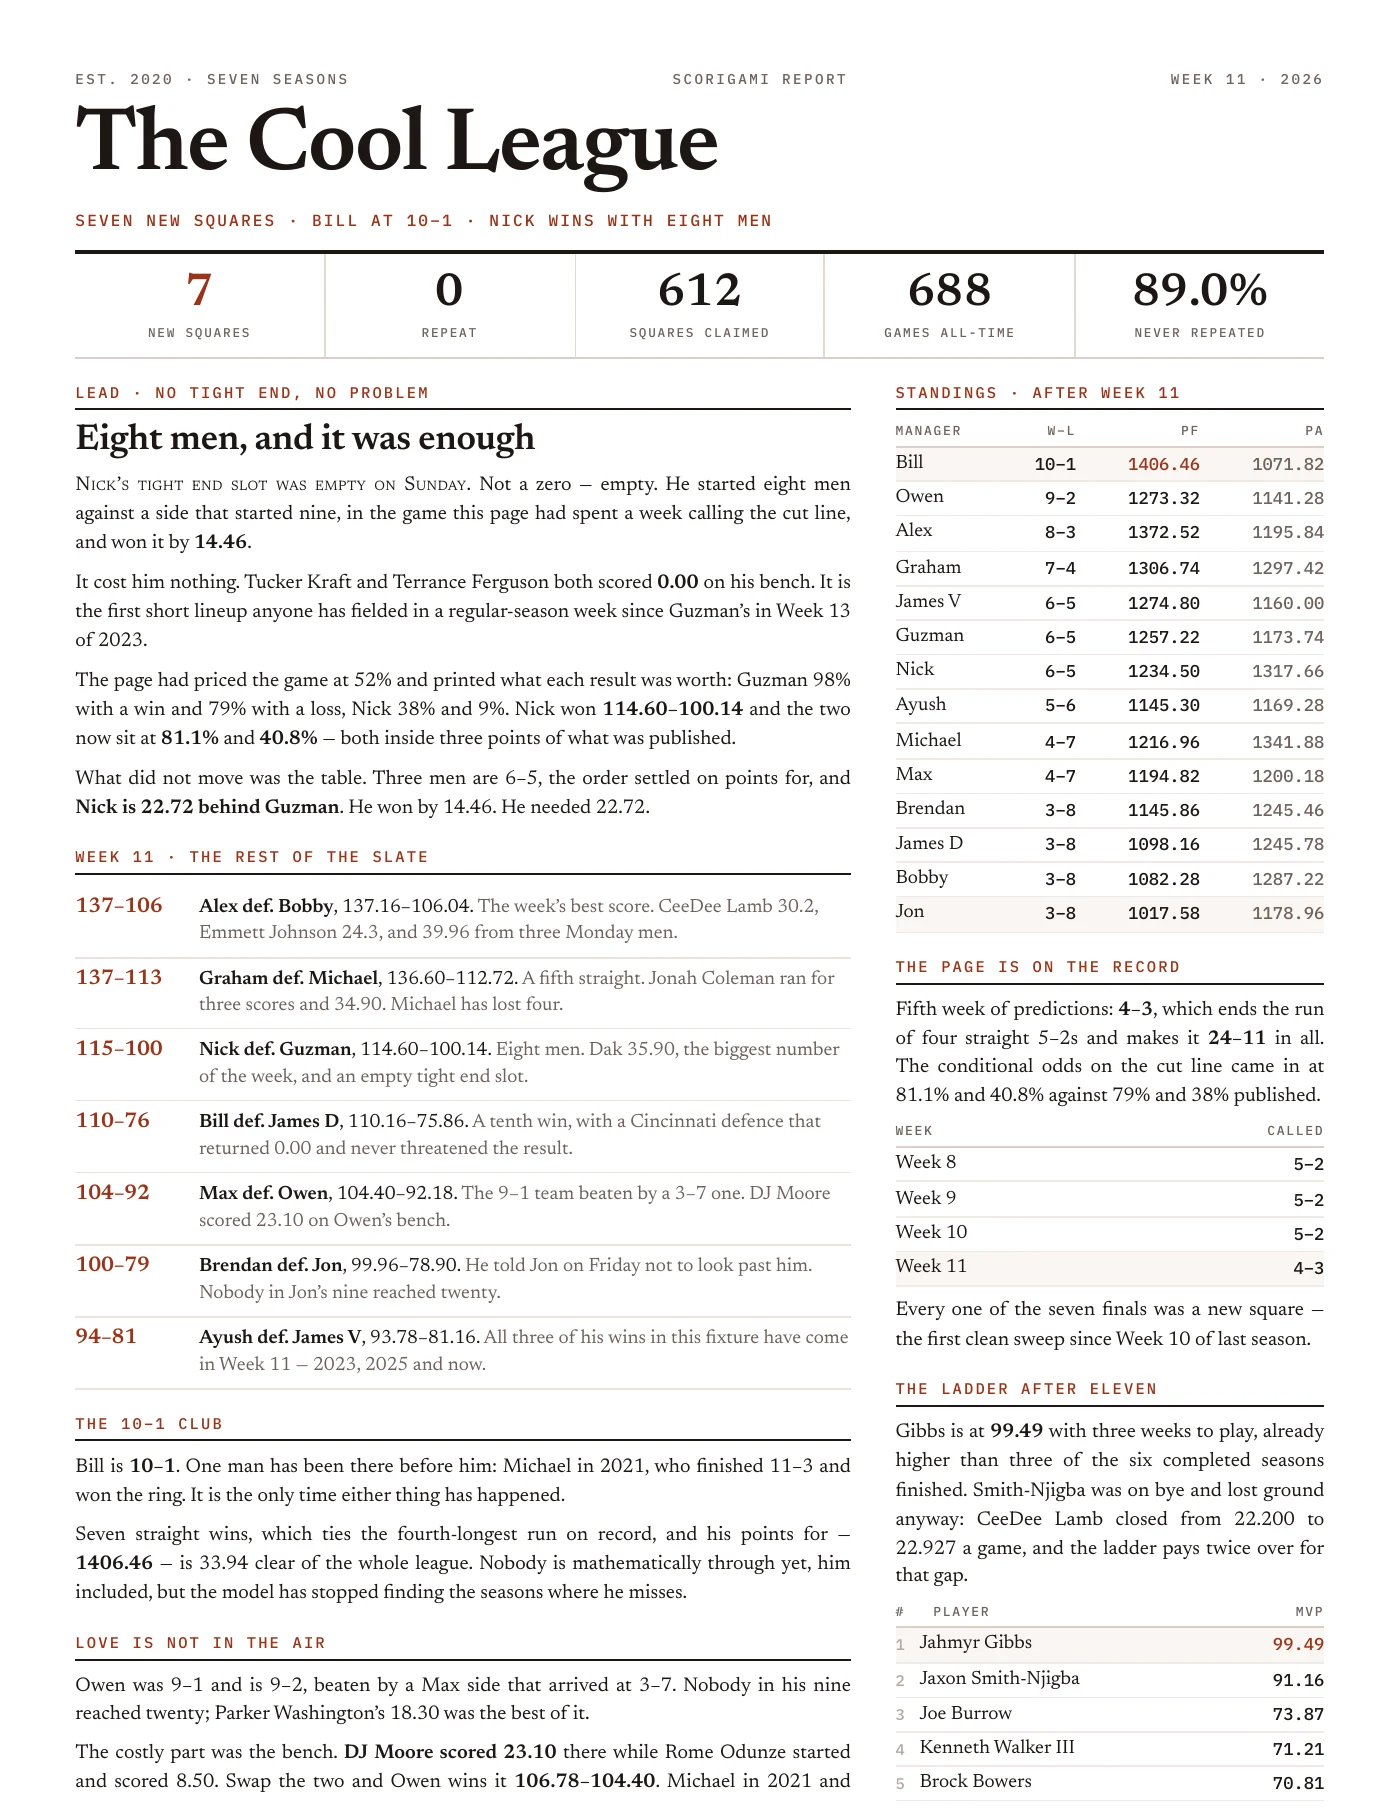
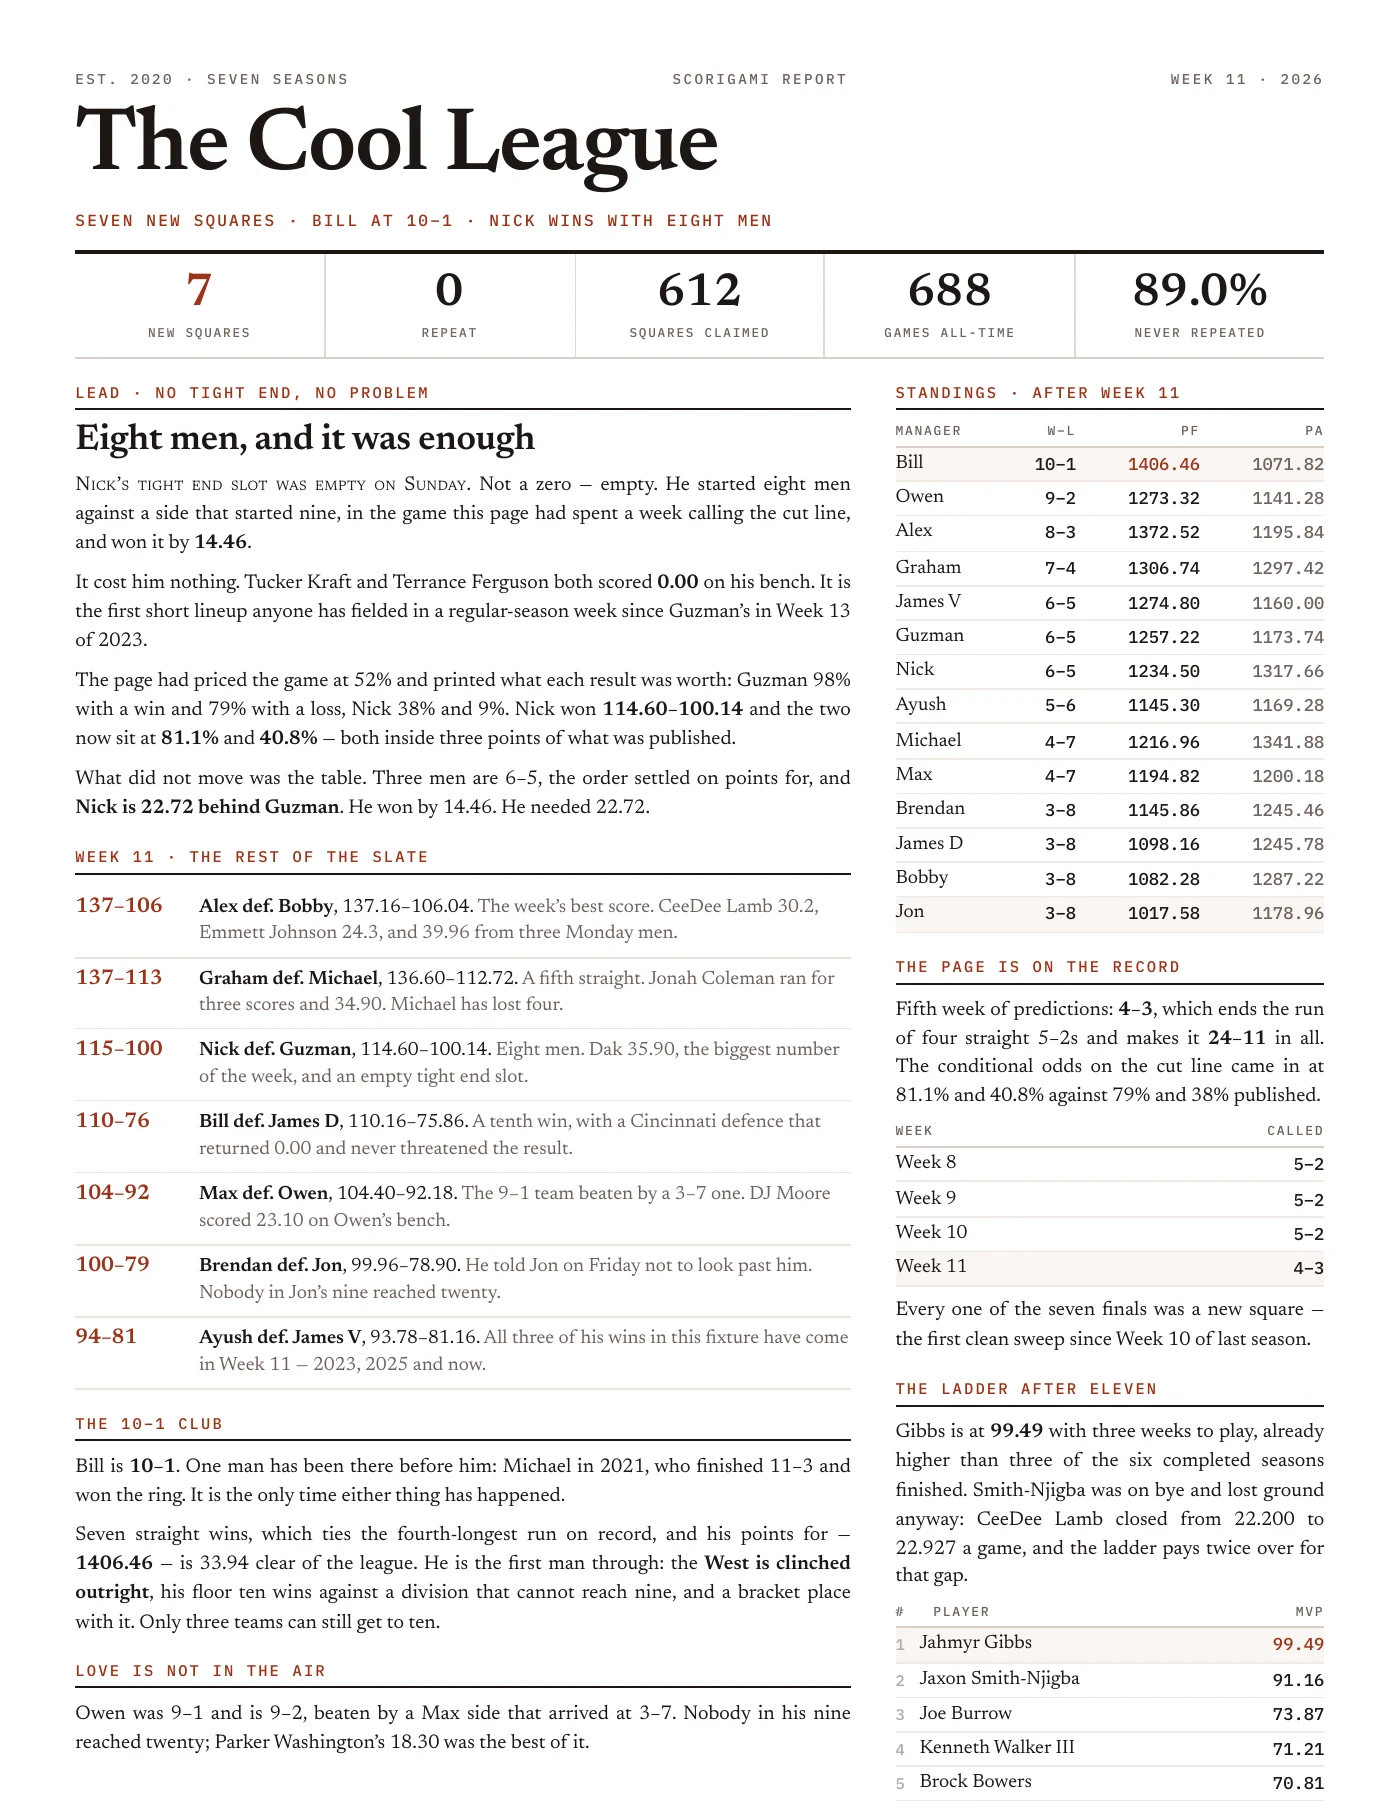
Bill has clinched; correct the card that said nobody had
The 10-1 Club card read "Nobody is mathematically through yet -- not
even him". Wrong on two counts.

The clinch check I was quoting was run after Week 10, with four games
left, and never re-run after Week 11 was imported. With three left the
picture changes: Bill's floor is 10-4 and only Owen, Alex and Graham can
reach ten wins, so he is through on the overall table regardless.

It also ignored divisions entirely, which is how the question was really
settled. Bill has clinched the West outright -- floor of ten wins
against a division whose best rival, Nick, cannot pass nine.

Card and one-pager both corrected.

Claude-Session: https://claude.ai/code/session_013zvrbkmsLqJGurJxMMmd5c

Changed region(s): [[0.0614, 0.8344, 0.6143, 0.989]]

diff --git a/public/index.html b/public/index.html
@@ -861,7 +861,7 @@ const ISSUE={
     cap:'Two names in seven seasons. The first one finished the job.', body:[
    'Bill is <strong>10–1</strong>. One man has been there before him: Michael in 2021, who went on to finish 11–3 and win the ring. It is the only time either thing has happened.',
    'He has won <strong>seven in a row</strong>, which ties the fourth-longest run the league has recorded, and he did it on Sunday with a defence that returned him <strong>0.00</strong>. The Bengals were the only zero in his nine. He won by 34.30 anyway.',
-   'Nobody is mathematically through yet — not even him — but the model has stopped finding the seasons where he misses. His points for, 1406.46, is 33.94 clear of the whole league.']},
+   'He is also the first man through. The <strong>West is clinched outright</strong>: his floor is ten wins and nobody in the division can reach nine. So is a bracket place on the overall table, where only three teams can still get to ten. His points for, 1406.46, is 33.94 clear of the league.']},
 
   night:{title:'Destiny', img:'news/w11-bengals.webp', h:1120,
     alt:'Three Cincinnati players photographed together, unsmiling',
